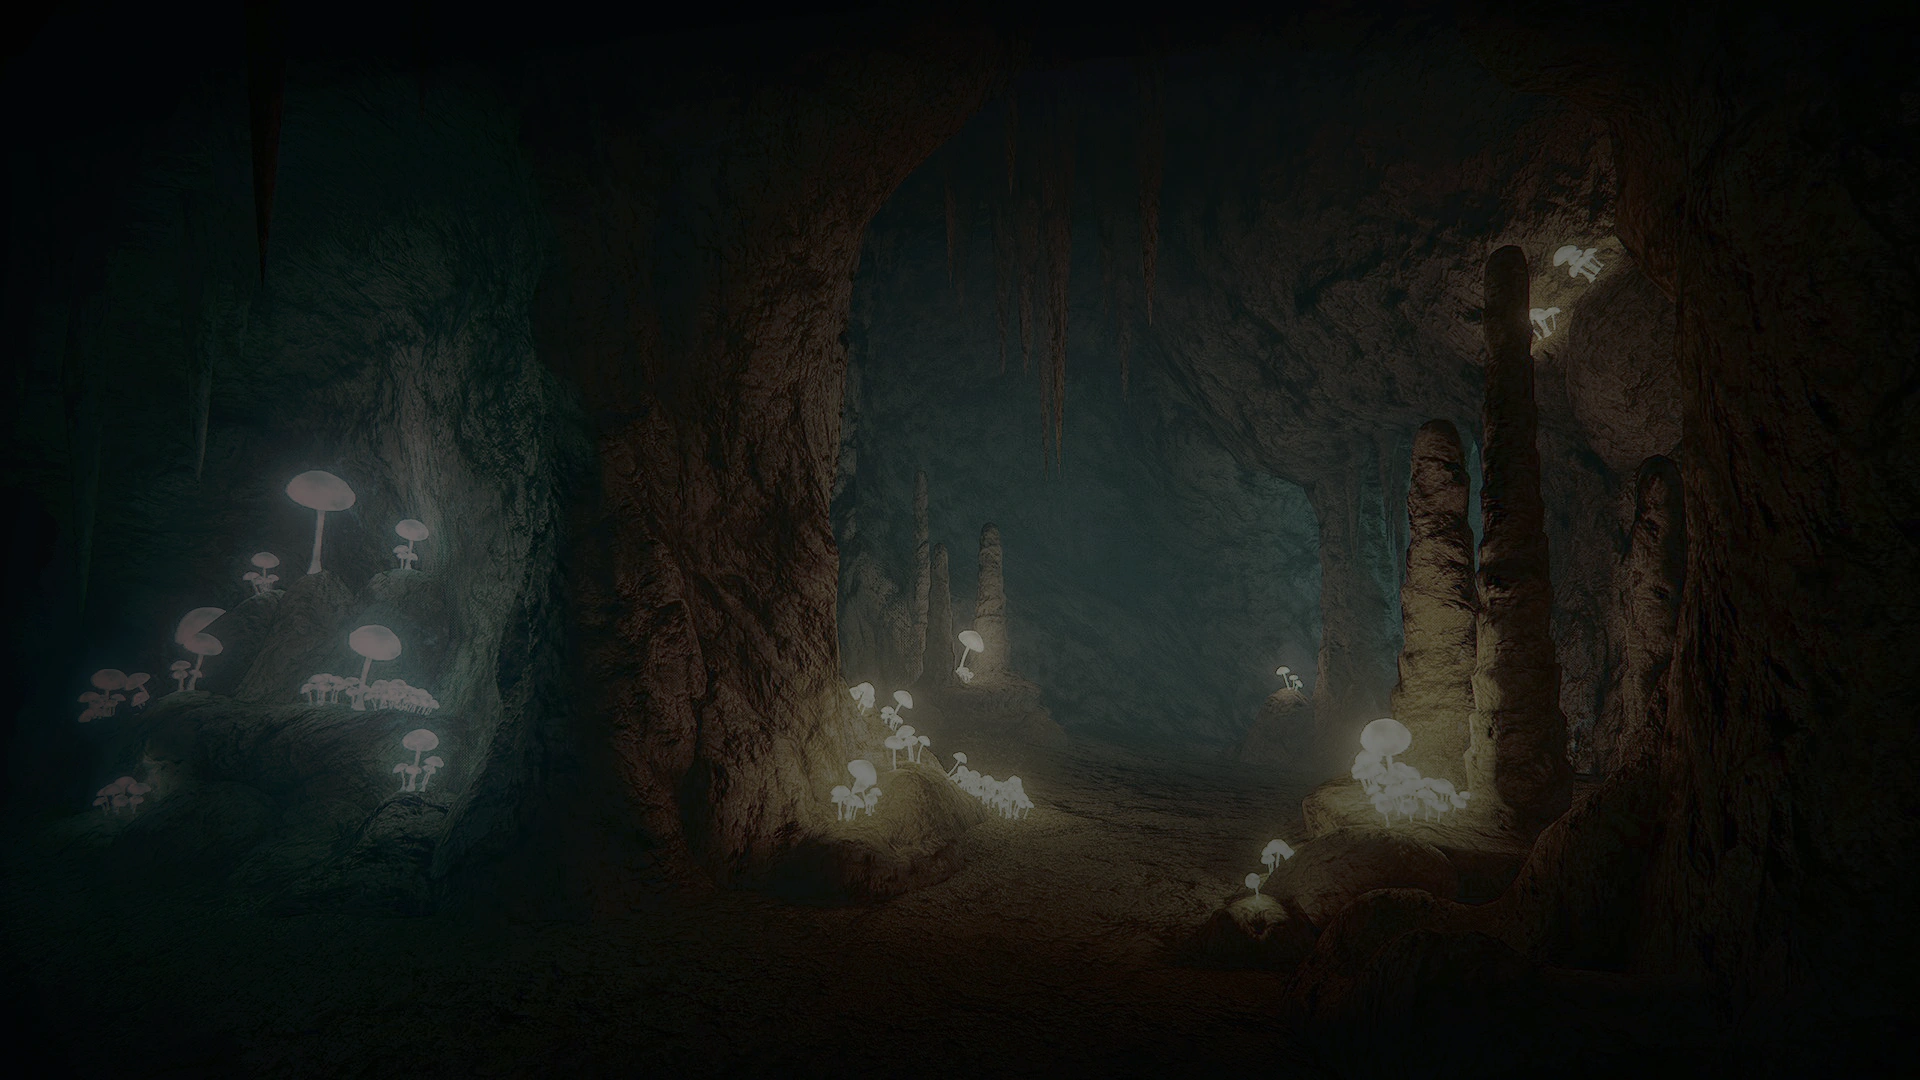
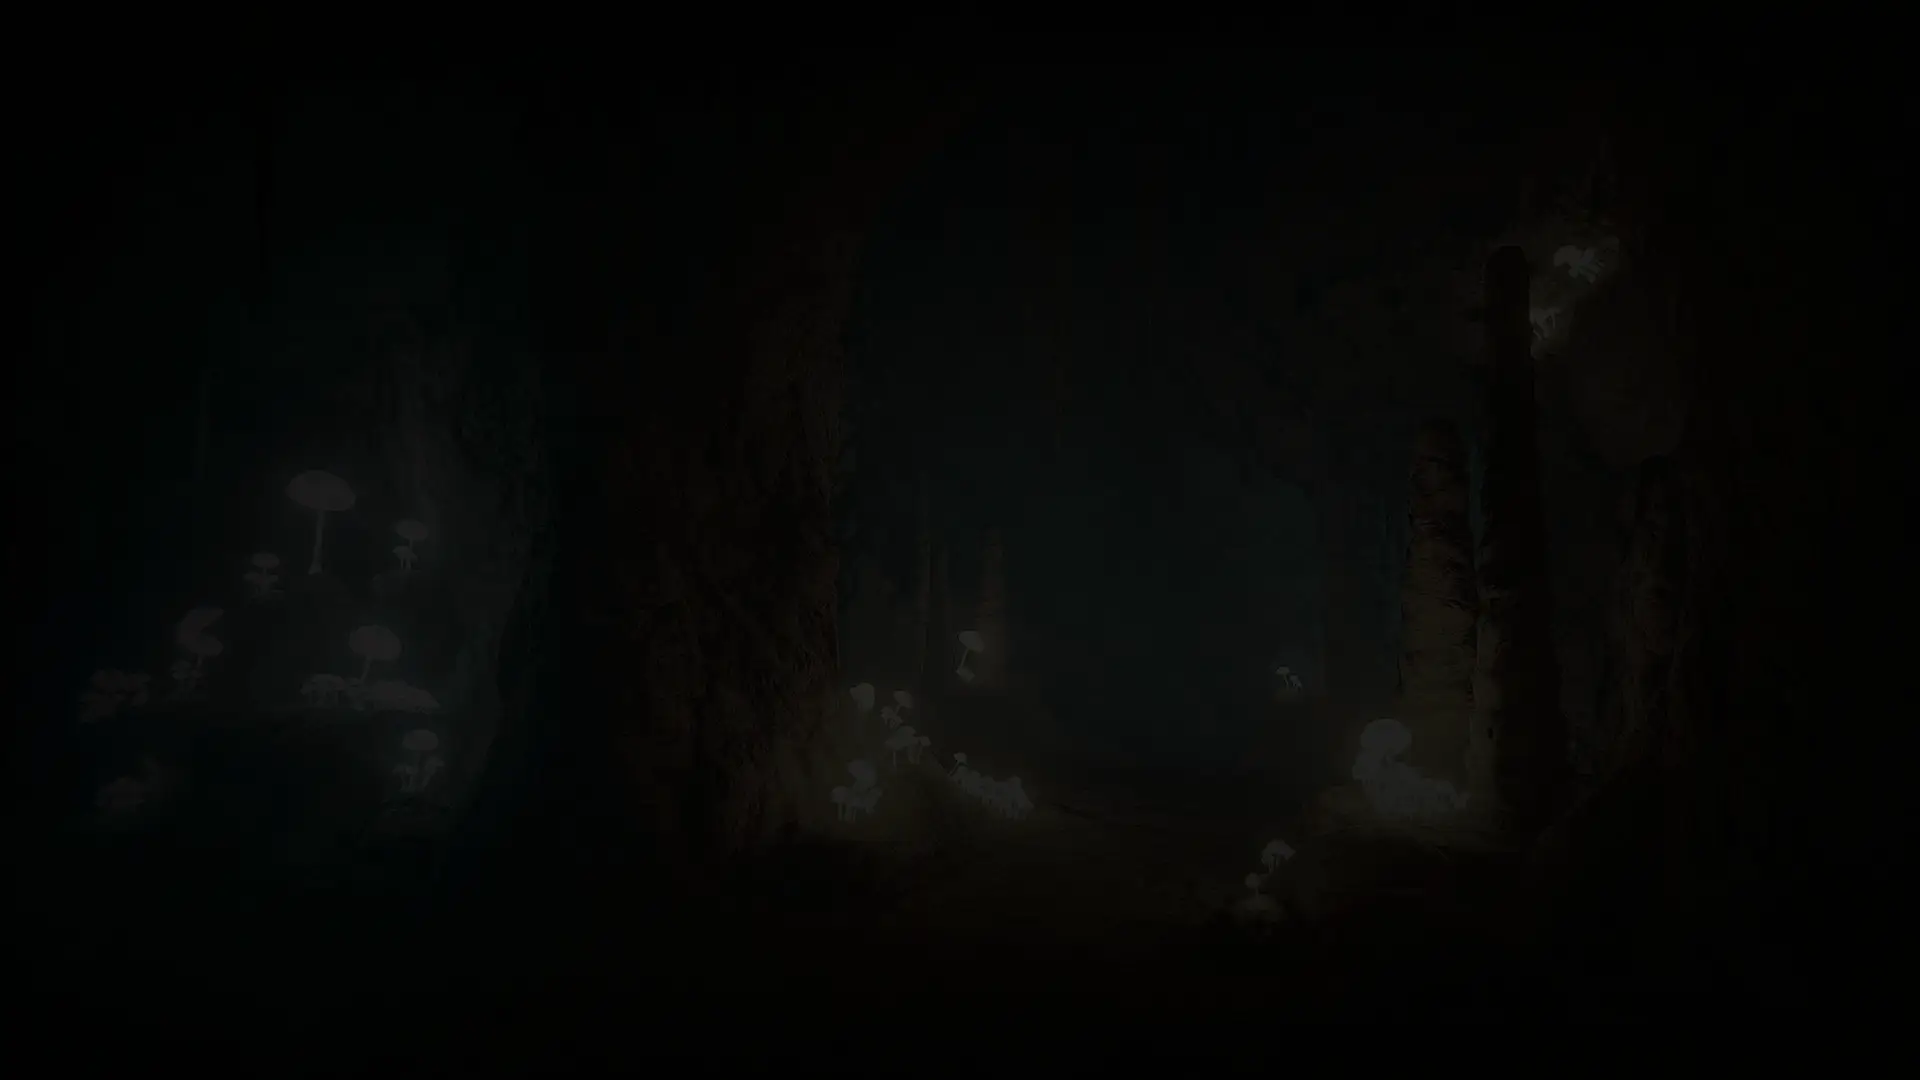
fin

Changed region(s): [[0.3125, 0.1528, 0.9062, 0.8861], [0.0312, 0.2444, 0.2812, 0.7944], [0.0312, 0.7028, 0.0938, 0.7639]]

diff --git a/front/src/layouts/Layout.scss b/front/src/layouts/Layout.scss
@@ -6,14 +6,12 @@
 
 body {
     font-family: "Montserrat", sans-serif;
-    background: var(--color-bg);
     color: var(--color-base);
     overflow-y: auto;
     overflow-x: hidden;
     background-repeat: no-repeat;
     background-attachment: fixed;
-    background-color: rgb(75, 75, 75);
-    background-blend-mode: multiply;
+    background-color: var(--color-bg);
 }
 
 body::-webkit-scrollbar-track {

diff --git a/front/src/widgets/Main/Main.module.scss b/front/src/widgets/Main/Main.module.scss
@@ -174,8 +174,6 @@
     background-size: cover;
     z-index: -1;
     margin-bottom: -100vh;
-    background-color: rgb(75, 75, 75);
-    background-blend-mode: multiply;
 }
 
 @media (min-width: 1000px) {
